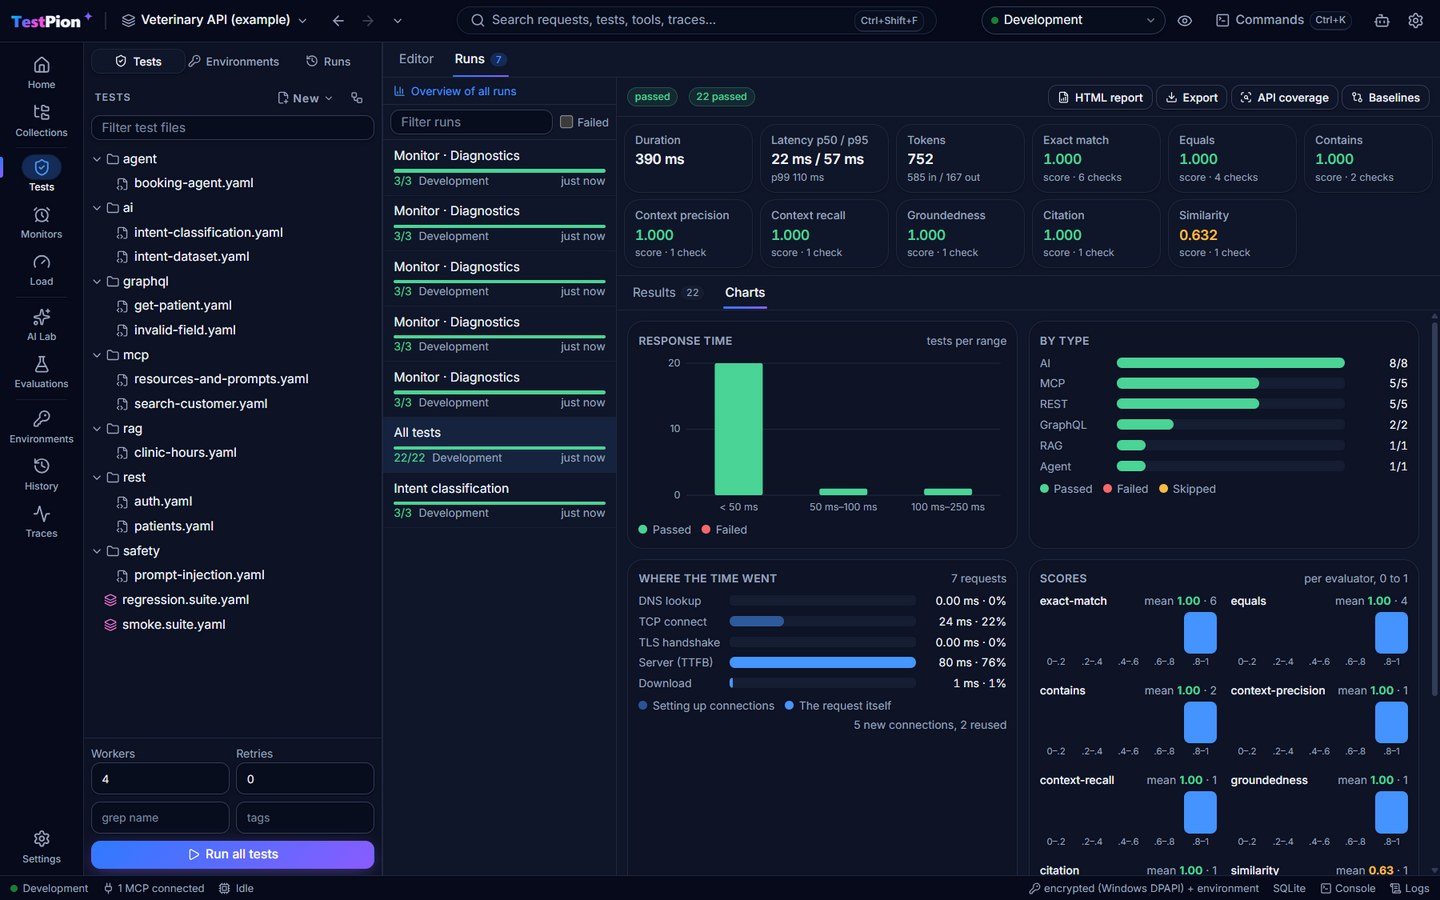
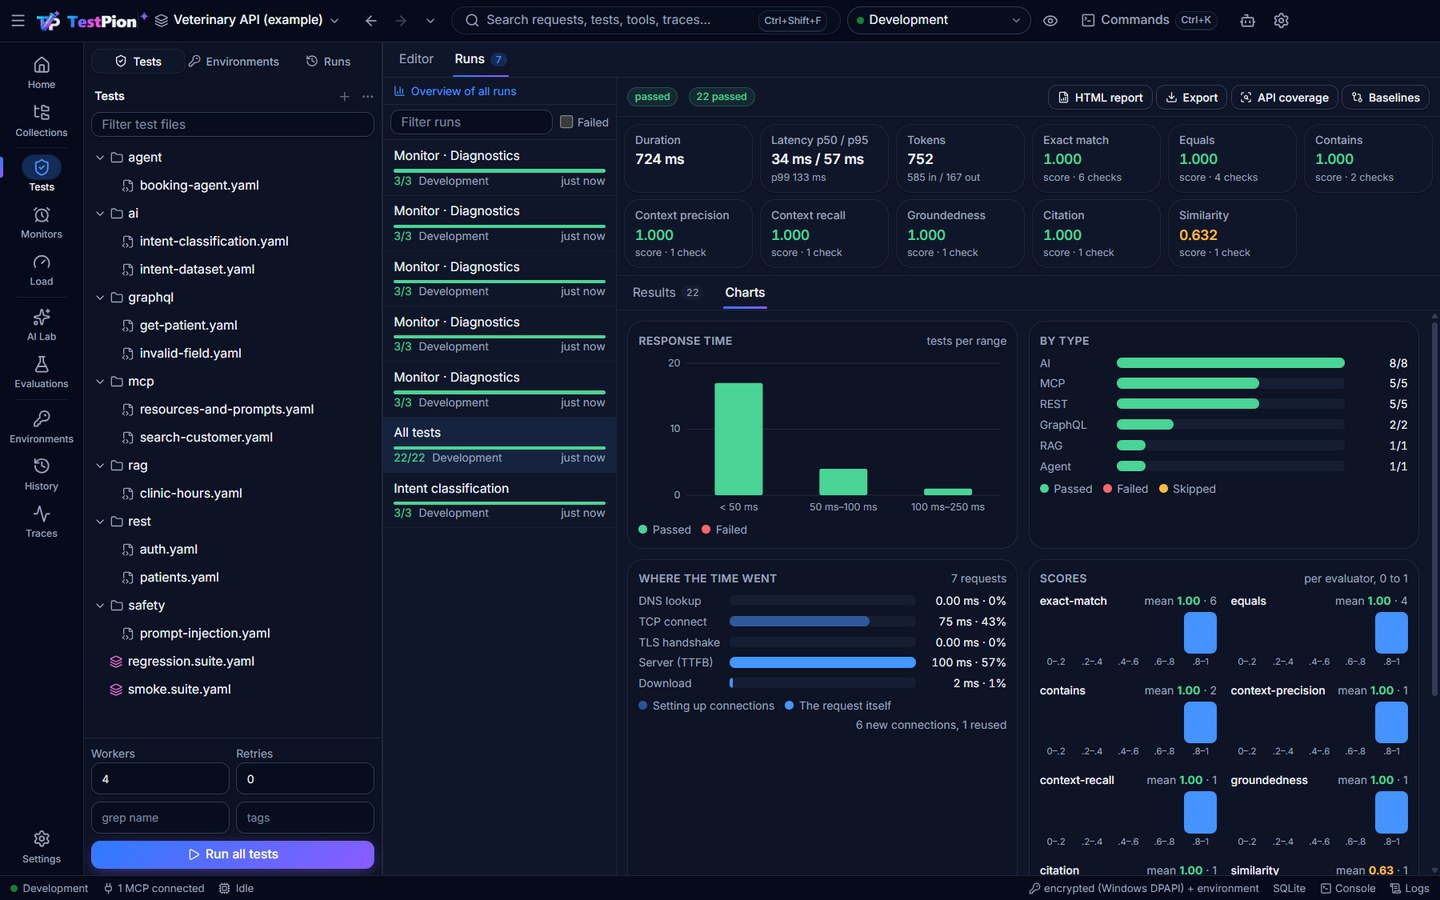
Release v0.36.0

diff --git a/packages/core/src/version.ts b/packages/core/src/version.ts
@@ -1,2 +1,2 @@
 /** TestPion's version (the engine, CLI and app are released together). */
-export const ENGINE_VERSION = '0.35.0';
+export const ENGINE_VERSION = '0.36.0';

diff --git a/CHANGELOG.md b/CHANGELOG.md
@@ -1,5 +1,20 @@
 # Changelog
 
+## 0.36.0 — 2026-10-01
+
+Highlights: the new TestPion logo, one look for every sidebar and menu, a JWT inspector, and workspace Export in the switcher.
+
+- **New logo**: the TP test-tube mark is the app icon (installer, Start menu and desktop shortcuts, taskbar, every size), the window icon and sits beside the wordmark in the top bar; the website logo and favicons use it too.
+- **The top bar is the title bar** (Windows, Linux): the logo and wordmark sit where the grey system title was, the window buttons are drawn over the bar's right end in the theme's colours, and File / Edit / View / Window / Help are behind the **☰** button. The window fits the screen and opens maximised on smaller ones (a laptop at 125 %).
+- **One look everywhere**: every sidebar list (Collections, MCP servers, API definitions, Tests, Environments, Monitors, Load tests, saved prompts, evaluations, gRPC, WebSocket, MCP) has the same header (title, count, **+** and **⋯**), the same folder rows, the same row buttons and a right-click menu on every row. Detail pages (a monitor, a load test, a provider, an environment) have one header style: the main actions, the rest under **⋯**.
+- **Folders for MCP servers and API definitions** in the explorer: **⋯ ▸ New folder**, **Move to folder** on a server or definition, rename or delete a folder (its items stay).
+- **New HTTP request** is the name everywhere (menus, buttons, the empty collection); an empty collection offers it as a button, and every collection row has a **+** for it.
+- **Tests**: the file tree has a menu on every row (Open, Run, Rename, Duplicate, Delete; Run or delete a folder); **+** offers every kind of test (*New HTTP test* …).
+- **Environments**: Make active, Duplicate and Delete from a row's menu; AI Lab providers: Duplicate and Remove (saved at once) from the list.
+- **JWT**: a **JWT** tab on responses that hold a token (claims, issued, expires in …), a `jwt` check (expiry margin, claims), `testpion jwt <token>` and the `decode_jwt` MCP tool. The demo token endpoint returns an `id_token`.
+- **Workspace switcher**: **Export** next to **Import** (native save dialog; cancelling does nothing; the message says where it was saved), and **Import** uses the native file dialog. Importing a workspace export keeps exactly its environments and names a repeated import *… (imported) 2*.
+- Sidebar panes show their names when there is room; Monitors no longer says *paused* twice; the monitor page uses the full width.
+
 ## 0.35.0 — 2026-10-01
 
 Highlights: request health that follows your checks, certificate reminders, traces you can filter.
